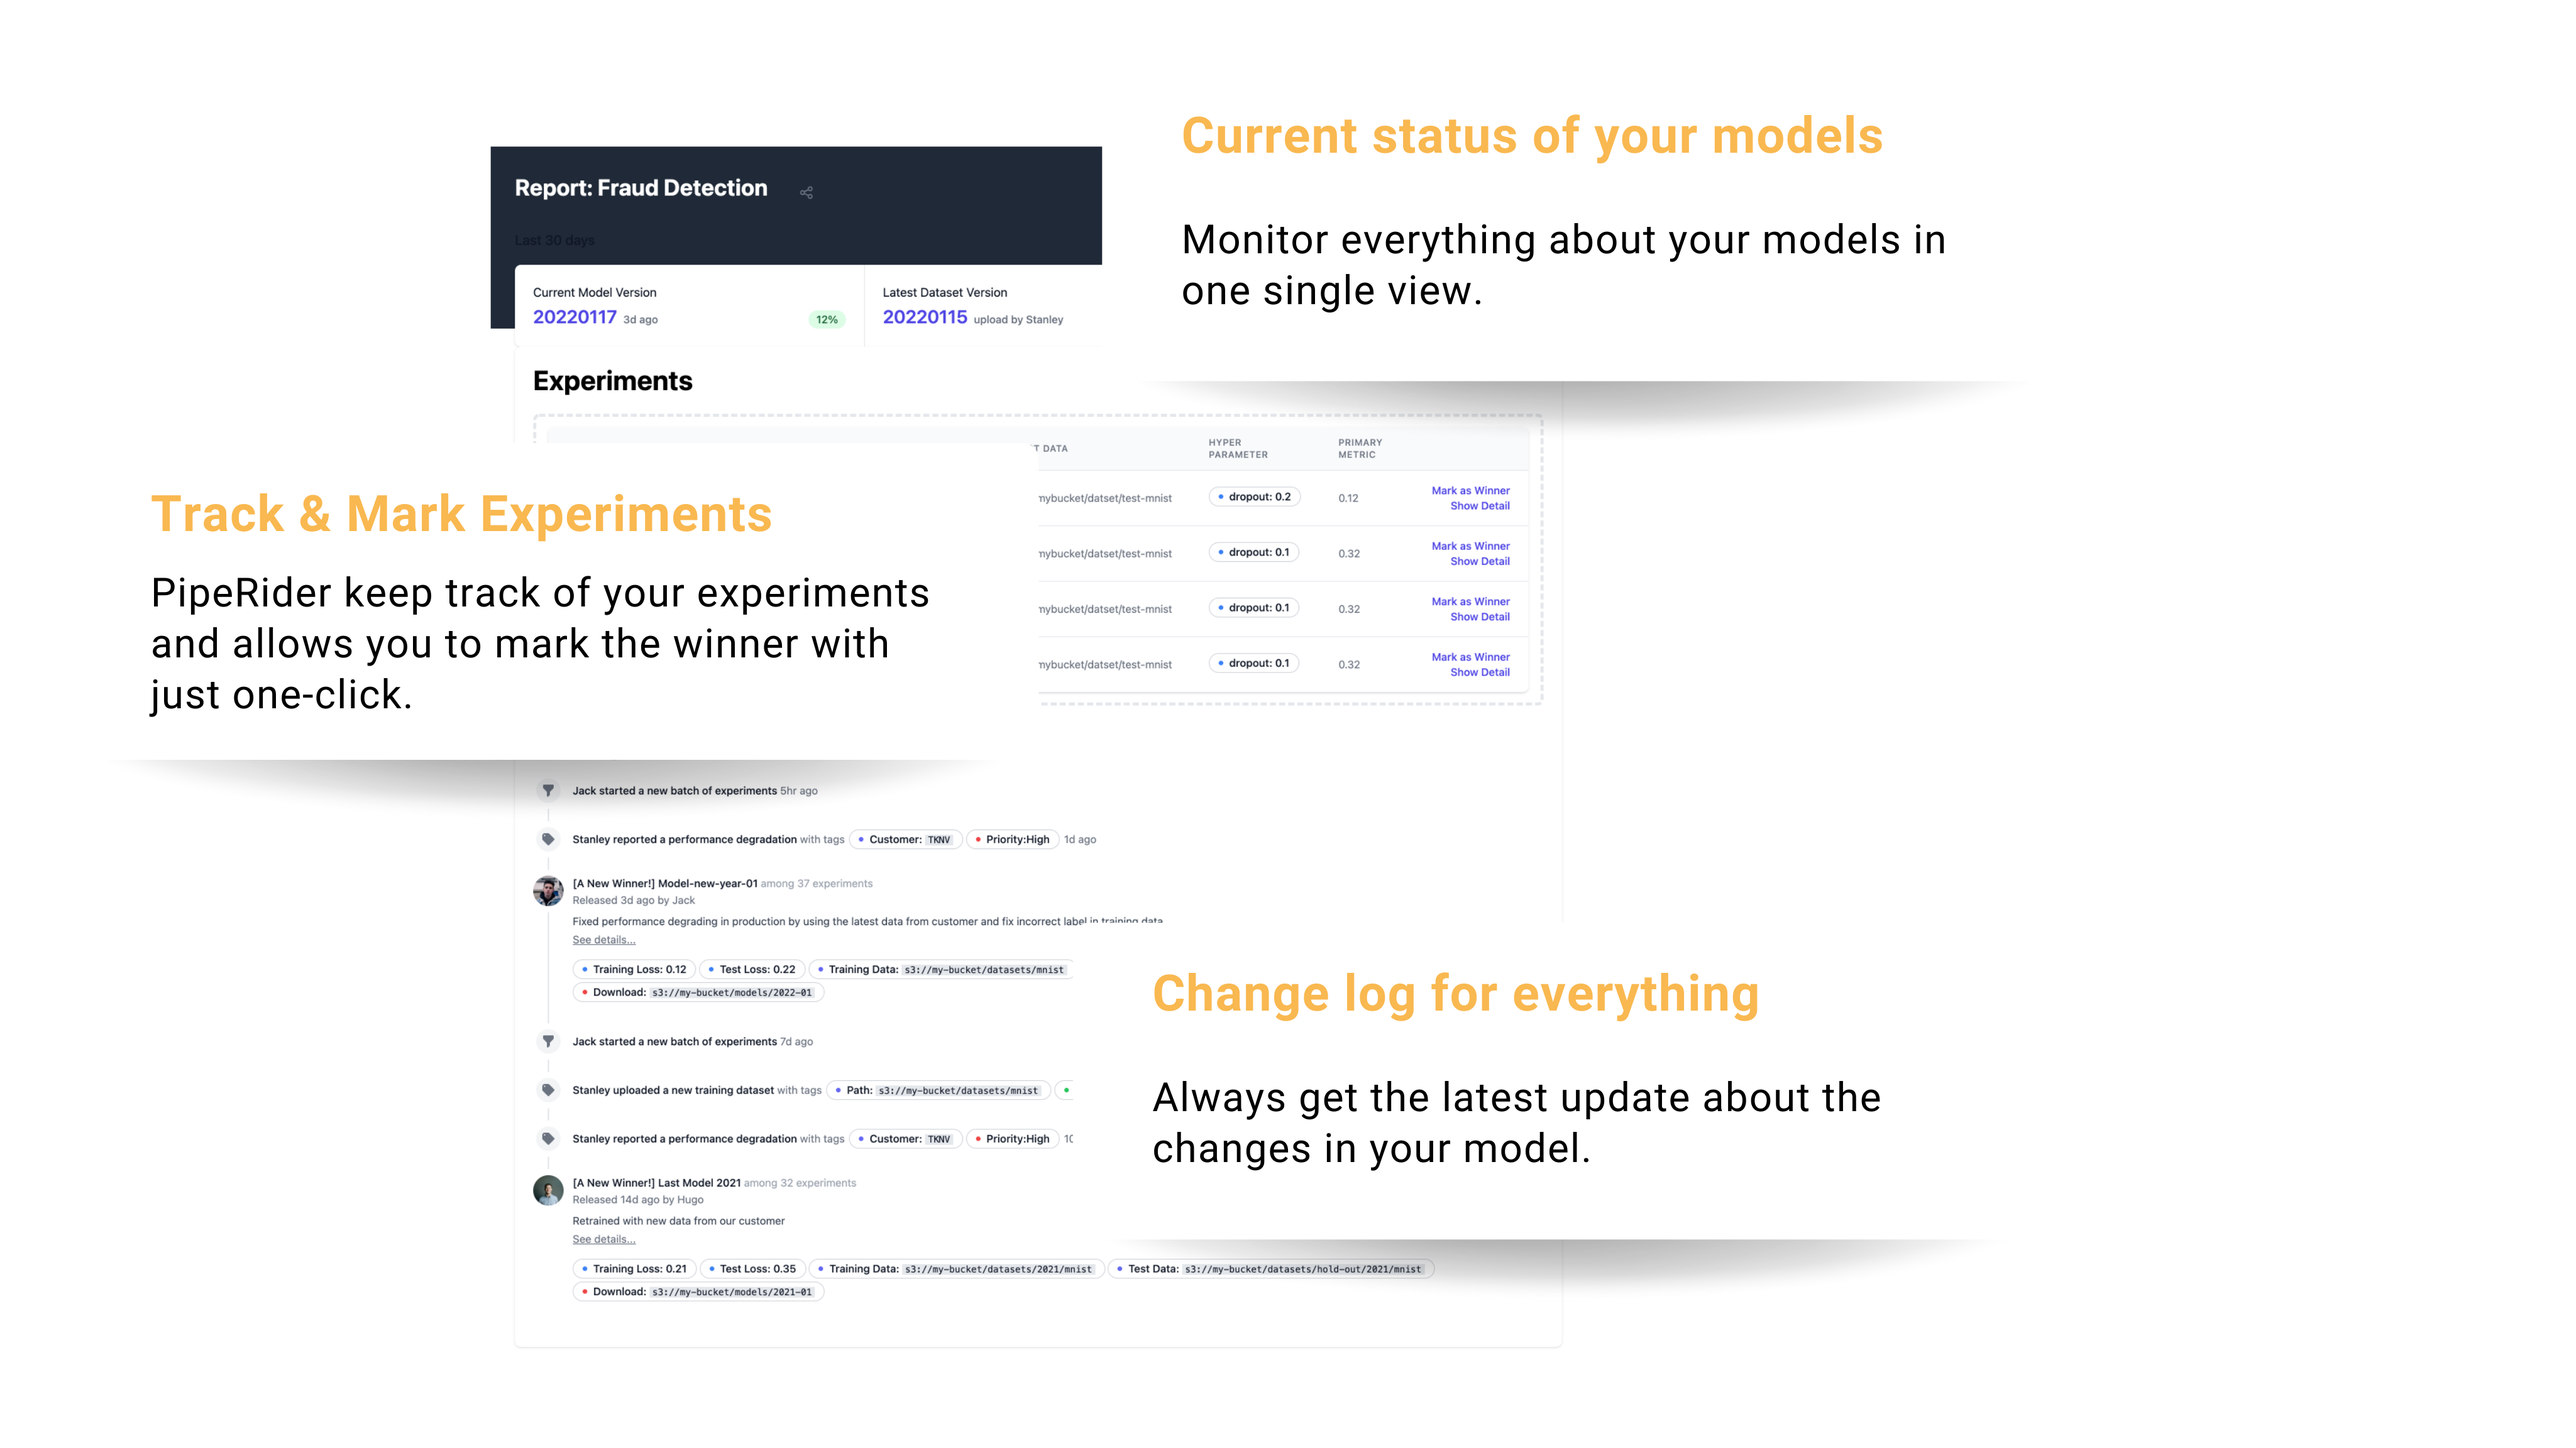
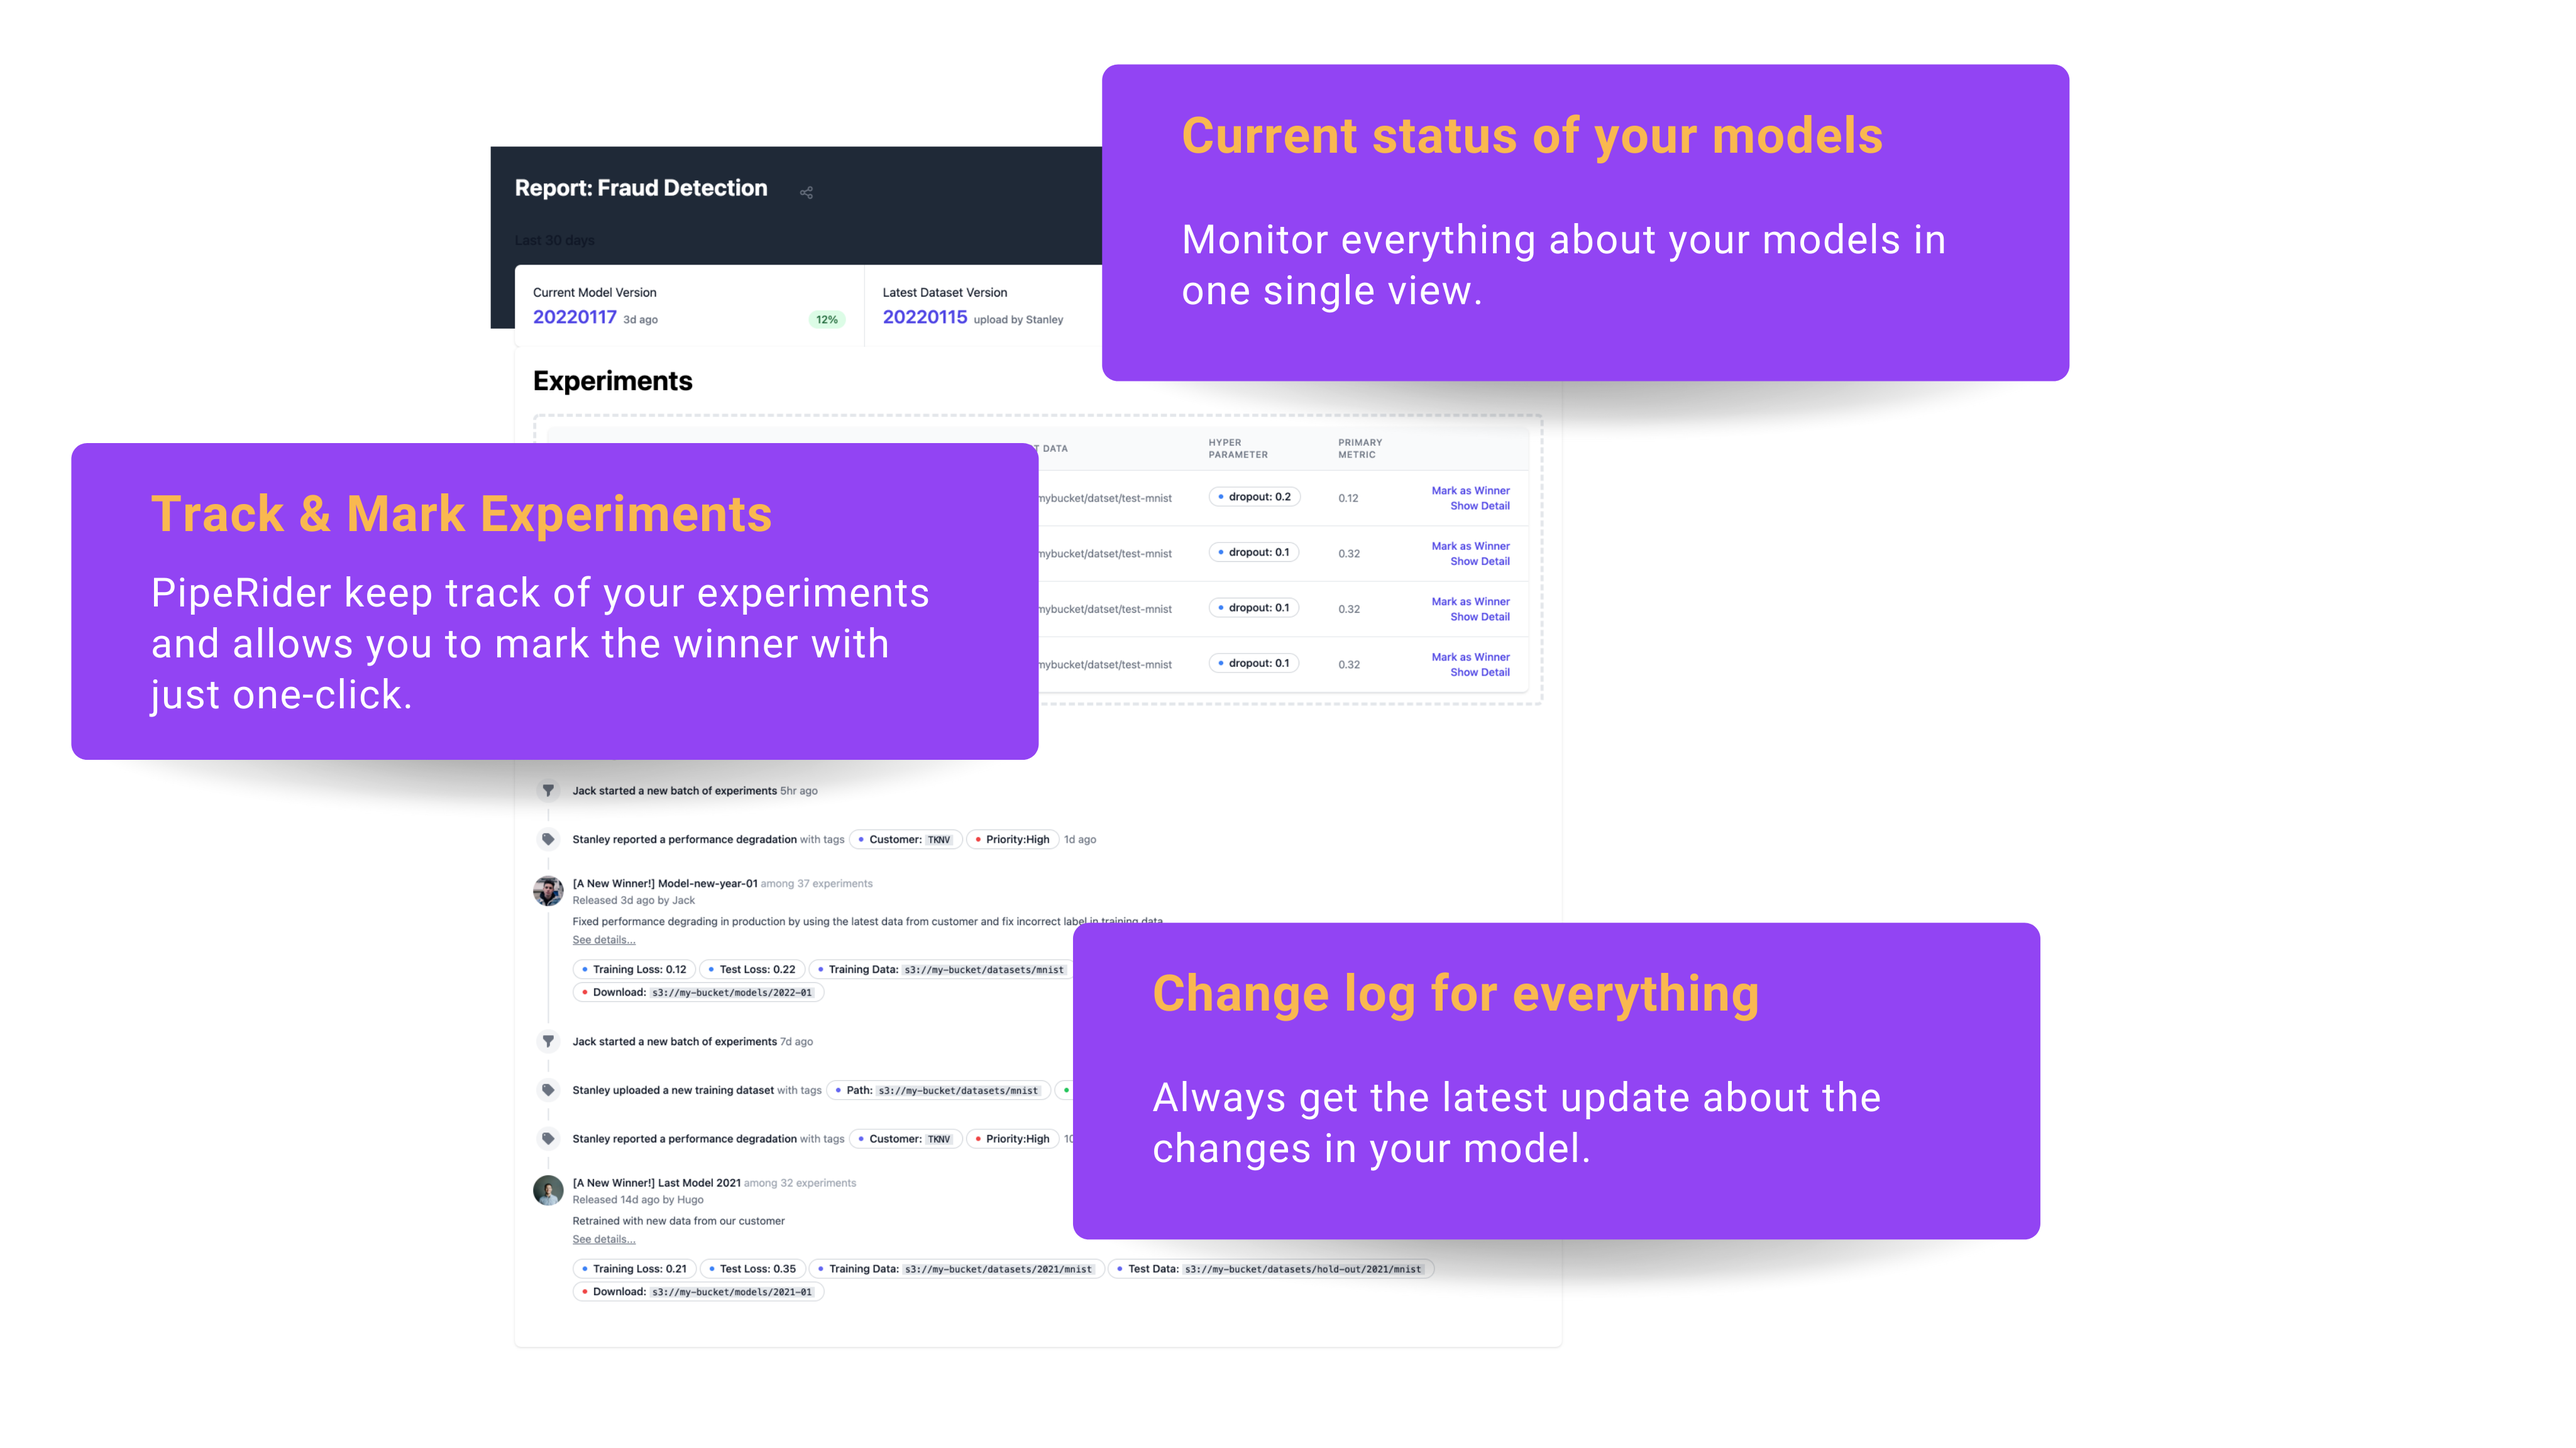
changed report image

Changed region(s): [[0.4061, 0.625, 0.8121, 0.875], [0.4061, 0.0312, 0.8121, 0.2812], [0.0, 0.2812, 0.4061, 0.5312]]

diff --git a/components/coffee.js b/components/coffee.js
@@ -36,7 +36,7 @@ export default function Coffee () {
                   <a
                     href={CFUrl}
                     className="inline-flex bg-origin-border px-4 py-2 border border-transparent text-base font-medium rounded-md shadow-sm text-white hover:from-purple-700 hover:to-indigo-700"
-                    style={{backgroundColor: "#FFB258"}}
+                    style={{backgroundColor: "#9244f3"}}
                   >
                   {t('section-secondary-action')}
                   </a>
@@ -77,7 +77,7 @@ export default function Coffee () {
                   <a
                     href={CFUrl}
                     className="inline-flex bg-origin-border px-4 py-2 border border-transparent text-base font-medium rounded-md shadow-sm text-white hover:from-purple-700 hover:to-indigo-700"
-                    style={{backgroundColor: "#FFB258"}}
+                    style={{backgroundColor: "#9244f3"}}
                   >
                     {t('section-third-action')}
                   </a>
@@ -118,7 +118,7 @@ export default function Coffee () {
                   <a
                     href={CFUrl}
                     className="inline-flex bg-origin-border px-4 py-2 border border-transparent text-base font-medium rounded-md shadow-sm text-white hover:from-purple-700 hover:to-indigo-700"
-                    style={{backgroundColor: "#FFB258"}}
+                    style={{backgroundColor: "#9244f3"}}
                   >
                   {t('section-fourth-action')}
                   </a>
@@ -208,7 +208,7 @@ export default function Coffee () {
                         name="subscribe"
                         id="mc-embedded-subscribe"
                         className="inline-flex bg-origin-border px-4 py-2 border border-transparent text-base font-medium rounded-md shadow-sm text-white hover:from-purple-700 hover:to-indigo-700"
-                        style={{backgroundColor: '#FFB258'}}
+                        style={{backgroundColor: '#9244f3'}}
                     />
                     </div>
                   </form>

diff --git a/components/hero.js b/components/hero.js
@@ -113,7 +113,7 @@ export default function Hero () {
                   />
                     <input type="submit" value={t('section-hero-action')} name="subscribe" id="mc-embedded-subscribe"
                     className="inline-flex bg-origin-border px-4 py-2 border border-transparent text-base font-medium rounded-md shadow-sm text-white hover:from-purple-700 hover:to-indigo-700"
-                    style={{backgroundColor: '#FFB258'}}
+                    style={{backgroundColor: '#9244f3'}}
                   />
                   </form>
                 </div>
